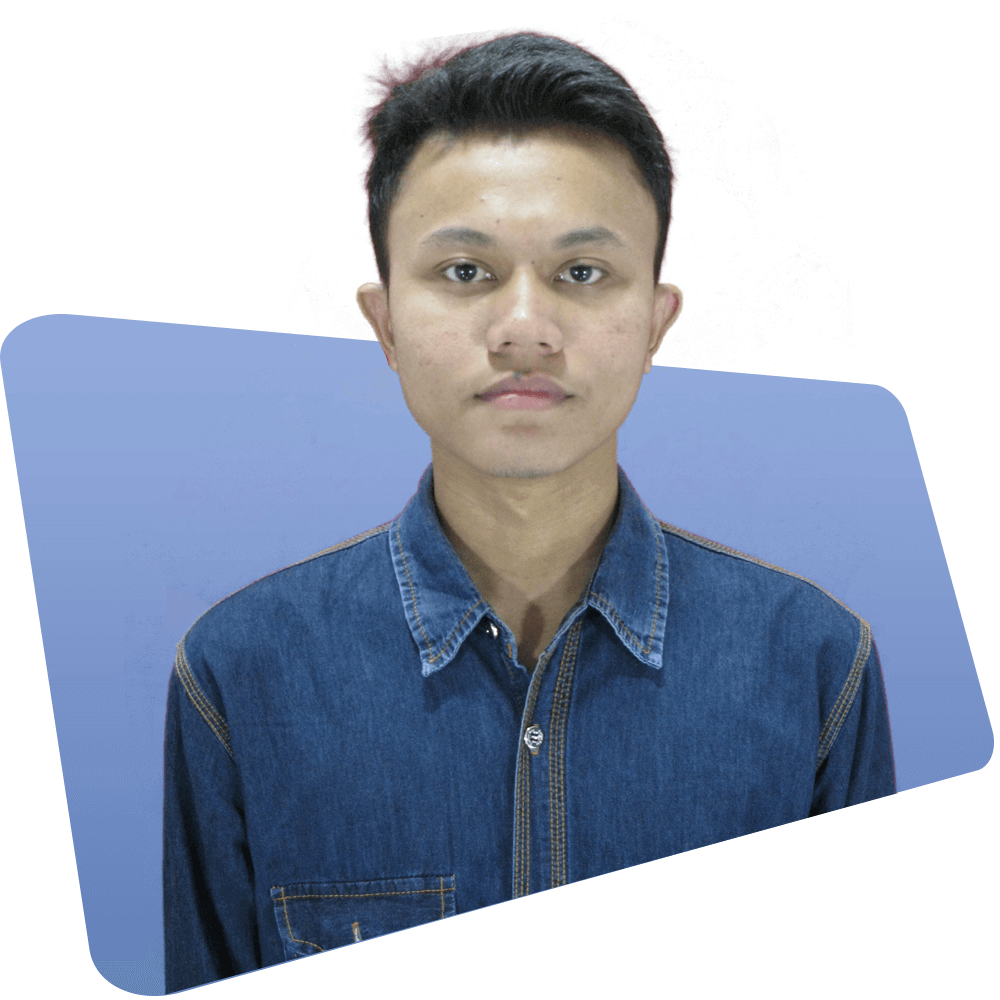
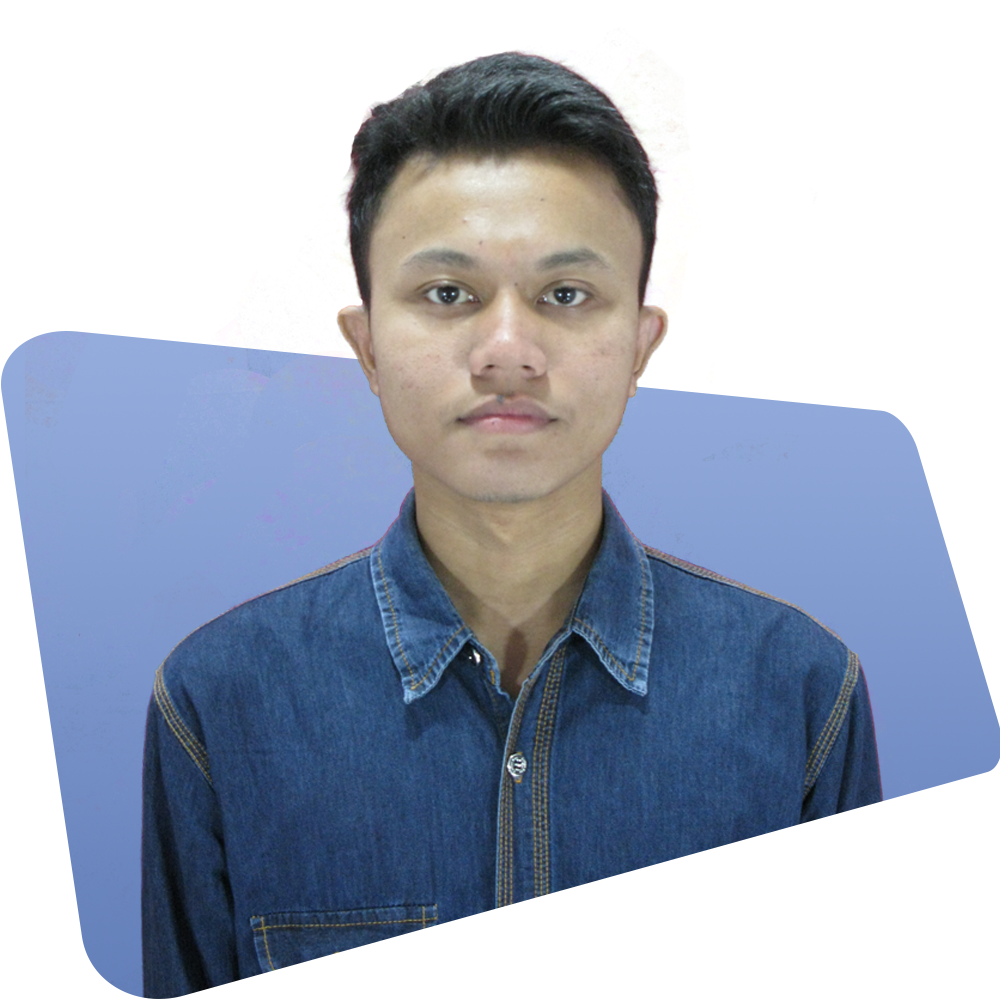
edit

diff --git a/style.css b/style.css
@@ -1,1 +1,237 @@
-@font-face{font-family:GothamRounded;src:url('fonts/GothamRounded-Medium.otf');}@font-face{font-family:GothamRoundedLight;src:url('fonts/GothamRounded-Light.otf');}html, body{font-size:10px;}#btntop{display:none;position:fixed;bottom:1.5rem;right:1.5rem;z-index:99;border:2px solid transparent;border-radius:.5rem;background-image:linear-gradient(to bottom right, rgb(100,128,186), rgb(116, 141, 192));padding:.35rem 1.05rem .35rem 1.05rem !important;color:white;box-shadow:.3rem .3rem .5rem rgb(200,200,200);transition:.2s all;}#btntop:hover, #btntop:focus{background-image:linear-gradient(to bottom right, white, white);border:2px solid rgb(100,128,186);color:rgb(18,18,18);box-shadow:none;outline:none;transition:.2s all;}.header, .konten1, .konten2, .konten3, .konten4{border-radius:0;background-color:white;background-size:cover;}.profil{width:100%;float:right;}.header h1{margin-top:35%;}.header h3{margin-top:-1rem;margin-bottom:-.5rem;}.kontak:hover{border:2px solid rgb(155,127,69);background-image:linear-gradient(to bottom right, transparent, transparent);transition:.2s all;box-shadow:none;filter:invert(100%) !important;}.kontak{width:4rem;height:4rem;margin:0rem .2rem 0rem .2rem;border:2px solid transparent;border-radius:50%;background-image:linear-gradient(to bottom right, rgb(100,128,186), rgb(116, 141, 192));transition:.2s all;box-shadow:.3rem .3rem .5rem rgb(200,200,200);}table tr td{font-size:1.6rem;font-family:'GothamRoundedLight';color:rgb(18,18,18);letter-spacing:.05rem;}.btn{background-image:linear-gradient(to bottom right, white, white);border:2px solid rgb(100,128,186);padding:1rem 1.5rem 1rem 1.5rem;font-size:1.6rem;font-family:'GothamRounded';border-radius:.5rem;color:rgb(18,18,18);transition:.2s all;box-shadow:none;}.btn:hover, .btn:focus{outline:none !important;background-image:linear-gradient(to bottom right, rgb(100,128,186), rgb(116, 141, 192));border:2px solid transparent;box-shadow:.5rem .5rem 1rem rgb(200,200,200);transition:.2s all;color:white !important;}.konten1 img{width:100%;border:none !important;border-radius:1rem;}.timeline{position:relative;margin:3rem auto;padding:2rem 0;}.timeline:before{content:'';position:absolute;left:50%;width:2px;height:85%;background:rgb(18,18,18);}.timeline ul{margin:0;padding:0;}.timeline ul li{list-style:none;position:relative;width:50%;padding:2rem 4rem;}.timeline ul li:nth-child(odd){float:left;text-align:right;clear:both;}.timeline ul li:nth-child(even){float:right;text-align:left;clear:both;}.content{padding-bottom:2rem;}.timeline ul li:nth-child(odd):before{content:'';position:absolute;top:24px;right:-6px;width:1rem;height:1rem;background:rgb(18,18,18);border-radius:50%;box-shadow:0 0 0 3px rgba(156, 156, 156, 0.2)}.timeline ul li:nth-child(even):before{content:'';position:absolute;top:24px;left:-4px;width:1rem;height:1rem;background:rgb(18,18,18);border-radius:50%;box-shadow:0 0 0 3px rgba(156, 156, 156, 0.2)}.timeline ul li h5{margin:0;padding:0;}.timeline ul li .time h5{margin:0;padding:0;color:white;}.timeline ul li:nth-child(odd) .time{position:absolute;top:12px;right:-165px;margin:0;padding:8px 16px;background-image:linear-gradient(to bottom right, rgb(100,128,186), rgb(116, 141, 192));color:white !important;border-radius:25px;box-shadow:0 0 0 3px rgba(156, 156, 156, 0.4);}.timeline ul li:nth-child(even) .time{position:absolute;top:12px;left:-165px;margin:0;padding:8px 16px;background-image:linear-gradient(to bottom right, rgb(100,128,186), rgb(116, 141, 192));color:white;border-radius:25px;box-shadow:0 0 0 3px rgba(156, 156, 156, 0.4);}.talent{padding:15px;}.box{width:100%;background-color:rgb(230, 230, 230);border-radius:5px !important;}.skill{color:white;margin-bottom:20px;border-radius:5px;}.ket{width:20rem;background:rgba(0, 0, 0, 0.3);padding-left:10px;padding-top:6px;padding-bottom:6px;border-radius:5px 0px 0px;font-size:1.6rem;font-family:'GothamRoundedLight';letter-spacing:.05rem;}.html{width:95%;background-color:#e96815;}.css{width:95%;background-color:#0764af;}.php{width:75%;background-color:#6482dd;}.js{width:75%;background-color:#fbde1c;}.ci{width:90%;background-color:#be4e06;}.pr{width:90%;background-color:rgb(201, 62, 146);}.ps{width:80%;background-color:rgb(14, 157, 210);}.ae{width:75%;background-color:rgb(134, 29, 93);}.second{display:none;}.konten3 .container{padding:0rem 3rem 0rem 3.2rem;}.konten3 h2{margin-top:46%;}.award{padding:2rem;background-image:linear-gradient(to bottom right, rgb(100,128,186), rgb(116, 141, 192));border-radius:1rem 0rem 0rem 1rem;}.award ul li{font-size:1.6rem;font-family:'GothamRoundedLight';color:white;letter-spacing:.05rem;}.awex{background-color:rgb(245,245,245);border-radius:0rem 1rem 1rem 0rem;}.card{border-radius:1rem;margin-bottom:3.5rem;transition:.2s all;}.card:hover{box-shadow:.5rem .5rem 1rem rgb(200,200,200);border:1px solid transparent;transition:.2s all;}.card-img-top{border-radius:1rem 1rem 0rem 0rem;}.card h4{color:rgb(18,18,18);}.page-footer{width:100%;background-color:white;padding:1.5rem 0rem 1.5rem 0rem;}.page-footer h5{font-weight:lighter;text-align:center;line-height:2.8rem;}h1{font-size:5rem;font-family:'GothamRounded';color:rgb(18,18,18);}h2{font-size:3.2rem;font-family:'GothamRounded';text-align:center;margin-bottom:3rem;color:rgb(18,18,18);}h3{font-size:2.5rem;font-family:'GothamRounded';color:rgb(18,18,18);}h4{font-size:2rem;font-family:'GothamRounded';color:white;}h5{font-size:1.6rem;font-family:'GothamRoundedLight';color:rgb(18,18,18);letter-spacing:.05rem;}p{font-size:1.6rem;font-family:'GothamRoundedLight';color:rgb(18,18,18);letter-spacing:.05rem;}strong{color:rgb(100,128,186);font-weight:lighter;}hr{margin-bottom:2rem;width:100%;float:left;background-color:rgb(18,18,18) !important;height:2px;}@media (max-width:767px){h1{line-height:5.2rem;} .header h3{margin-top:1rem;margin-bottom:-.5rem;} .container{padding:none !important;} .profil{float:none;margin-top:1rem;} .header h1{margin-top:0%;} .konten1 img{margin-bottom:1.5rem;} .timeline{width:100%;padding-bottom:0;} .timeline:before{left:0px;width:2px;height:80%;top:0px;} .timeline ul li:nth-child(even), .timeline ul li:nth-child(odd){width:100%;text-align:left;padding-left:30px;padding-bottom:50px;} .timeline ul li:nth-child(even):before, .timeline ul li:nth-child(odd):before{top:-18px;left:-3px;} .timeline ul li:nth-child(even) .time, .timeline ul li:nth-child(odd) .time{top:-30px;left:30px;right:inherit;} .first{display:none;} .second{display:block;} .konten3 .container{padding:0rem 1.8rem 0rem 2rem;} .konten3 h2{margin-top:15%;} .award{border-radius:0rem 0rem 1rem 1rem;} .awex{border-radius:1rem 1rem 0rem 0rem;} .page-footer{width:100%;background-color:white;padding:2.4rem;} .page-footer h5{text-align:left;}}
+@font-face {
+    font-family:GothamRounded; src:url('fonts/GothamRounded-Medium.otf');
+}
+@font-face {
+    font-family:GothamRoundedLight; src:url('fonts/GothamRounded-Light.otf');
+}
+html, body {
+    font-size:10px;
+}
+#btntop{
+    display:none; position:fixed; bottom:1.5rem; right:1.5rem; z-index:99; border:2px solid transparent; border-radius:.5rem; background-image:linear-gradient(to bottom right, rgb(100,128,186), rgb(116, 141, 192)); padding:.35rem 1.05rem .35rem 1.05rem !important; color:white; box-shadow:.3rem .3rem .5rem rgb(200,200,200); transition:.2s all;
+}
+#btntop:hover, #btntop:focus {
+    background-image:linear-gradient(to bottom right, white, white); border:2px solid rgb(100,128,186); color:rgb(18,18,18); box-shadow:none; outline:none; transition:.2s all;
+}
+.header, .konten1, .konten2, .konten3, .konten4 {
+    border-radius:0; background-color:white; background-size:cover;
+}
+.profil {
+    width:100%; float:right;
+}
+.header h1 {
+    margin-top:35%;
+}
+.header h3 {
+    margin-top:-1rem; margin-bottom:-.5rem;
+}
+.kontak:hover {
+    border:2px solid rgb(155,127,69);background-image:linear-gradient(to bottom right, transparent, transparent); transition:.2s all; box-shadow:none; filter:invert(100%) !important;
+}
+.kontak {
+    width:4rem; height:4rem; margin:0rem .2rem 0rem .2rem; border:2px solid transparent; border-radius:50%; background-image:linear-gradient(to bottom right, rgb(100,128,186), rgb(116, 141, 192)); transition:.2s all; box-shadow:.3rem .3rem .5rem rgb(200,200,200);
+}
+
+table tr td {
+    font-size:1.6rem; font-family: 'GothamRoundedLight'; color:rgb(18,18,18); letter-spacing:.05rem;
+}
+.btn {
+    background-image:linear-gradient(to bottom right, white, white); border:2px solid rgb(100,128,186); padding:1rem 1.5rem 1rem 1.5rem; font-size:1.6rem; font-family:'GothamRounded'; border-radius:.5rem; color:rgb(18,18,18); transition:.2s all; box-shadow:none;
+}
+.btn:hover, .btn:focus {
+    outline:none !important; background-image:linear-gradient(to bottom right, rgb(100,128,186), rgb(116, 141, 192)); border:2px solid transparent; box-shadow:.5rem .5rem 1rem rgb(200,200,200); transition:.2s all; color:white !important;
+}
+.konten1 img {
+    width:100%;
+}
+
+.timeline {
+    position:relative; margin:3rem auto; padding:2rem 0;
+}
+.timeline:before {
+    content:''; position:absolute; left:50%; width:2px; height:85%; background:rgb(18,18,18);
+}
+.timeline ul {
+    margin:0; padding:0;
+}
+.timeline ul li {
+    list-style:none; position:relative; width:50%; padding:2rem 4rem;
+}
+.timeline ul li:nth-child(odd) {
+    float:left; text-align:right; clear:both;
+}
+.timeline ul li:nth-child(even) {
+    float:right; text-align:left; clear:both;
+}
+.content {
+    padding-bottom:2rem;
+}
+.timeline ul li:nth-child(odd):before {
+    content:''; position:absolute; top:24px; right:-6px; width:1rem; height:1rem; background:rgb(18,18,18); border-radius:50%; box-shadow:0 0 0 3px rgba(156, 156, 156, 0.2)
+}
+.timeline ul li:nth-child(even):before {
+    content:''; position:absolute; top:24px; left:-4px; width:1rem; height:1rem; background:rgb(18,18,18); border-radius:50%; box-shadow:0 0 0 3px rgba(156, 156, 156, 0.2)
+}
+.timeline ul li h5 {
+    margin:0; padding:0;
+}
+.timeline ul li .time h5 {
+    margin:0; padding:0; color:white;
+}
+.timeline ul li:nth-child(odd) .time {
+    position:absolute; top:12px; right:-165px;margin:0; padding:8px 16px; background-image:linear-gradient(to bottom right, rgb(100,128,186), rgb(116, 141, 192)); color:white !important; border-radius:25px; box-shadow:0 0 0 3px rgba(156, 156, 156, 0.4);
+}
+.timeline ul li:nth-child(even) .time {
+    position:absolute; top:12px; left:-165px; margin:0; padding:8px 16px; background-image:linear-gradient(to bottom right, rgb(100,128,186), rgb(116, 141, 192)); color:white; border-radius:25px; box-shadow:0 0 0 3px rgba(156, 156, 156, 0.4);
+}
+.talent {
+    padding:15px;
+}
+.box {
+    width:100%; background-color:rgb(230, 230, 230); border-radius:5px !important;
+}
+.skill {
+    color:white; margin-bottom:20px; border-radius:5px;
+}
+.ket {
+    width:20rem; background:rgba(0, 0, 0, 0.3); padding-left:10px; padding-top:6px; padding-bottom:6px; border-radius:5px 0px 0px; font-size:1.6rem; font-family: 'GothamRoundedLight'; letter-spacing:.05rem;
+}
+.html {width: 95%; background-color: #e96815;}
+.css {width: 95%; background-color: #0764af;}
+.php {width: 75%; background-color: #6482dd;}
+.js {width: 75%; background-color: #fbde1c;}
+.ci {width: 90%; background-color: #be4e06;}
+.pr {width: 90%; background-color: rgb(201, 62, 146);}
+.ps {width: 80%; background-color: rgb(14, 157, 210);}
+.ae {width: 75%; background-color: rgb(134, 29, 93);}
+
+.second {
+    display:none;
+}
+.konten3 .container {
+    padding: 0rem 3rem 0rem 3.2rem;
+}
+.konten3 h2 {
+    margin-top:46%;
+}
+.award {
+    padding:2rem; background-image:linear-gradient(to bottom right, rgb(100,128,186), rgb(116, 141, 192)); border-radius: 1rem 0rem 0rem 1rem;
+}
+.award ul li {
+    font-size:1.6rem; font-family: 'GothamRoundedLight'; color:white; letter-spacing:.05rem;
+}
+.awex {
+    background-color:rgb(240,240,240); border-radius: 0rem 1rem 1rem 0rem;
+}
+.card {
+    border-radius: 1rem; margin-bottom:3.5rem; transition:.2s all;
+}
+.card:hover {
+    box-shadow:.5rem .5rem 1rem rgb(200,200,200); border:1px solid transparent; transition:.2s all;
+}
+.card-img-top {
+    border-radius: 1rem 1rem 0rem 0rem;
+}
+.card h4 {
+    color:rgb(18,18,18);
+}
+
+.page-footer{
+    width:100%; background-color:white; padding:1.5rem 0rem 1.5rem 0rem;
+}
+.page-footer h5 {
+    font-weight:lighter; text-align:center; line-height:2.8rem;
+}
+h1 {
+    font-size:5rem; font-family:'GothamRounded'; color:rgb(18,18,18); 
+}
+h2 {
+    font-size:3.2rem; font-family:'GothamRounded'; text-align:center; margin-bottom:3rem; color:rgb(18,18,18);
+}
+h3 {
+    font-size:2.5rem; font-family:'GothamRounded'; color:rgb(18,18,18); 
+}
+h4 {
+    font-size:2rem; font-family:'GothamRounded'; color:white;
+}
+h5 {
+    font-size:1.6rem; font-family: 'GothamRoundedLight'; color:rgb(18,18,18); letter-spacing:.05rem;
+}
+p {
+    font-size:1.6rem; font-family: 'GothamRoundedLight'; color:rgb(18,18,18); letter-spacing:.05rem;
+}
+strong {
+    color:rgb(100,128,186); font-weight:lighter;
+}
+hr {
+    margin-bottom:2rem; width:100%; float:left; background-color:rgb(18,18,18) !important; height:2px;
+}
+@media (max-width: 767px) {
+    h1 {
+        line-height:5.2rem;
+    }
+    .header h3 {
+        margin-top:1rem; margin-bottom:-.5rem;
+    }
+    .container {
+        padding:none !important;
+    }
+    .profil {
+        float:none; margin-top:1rem;
+    }
+    .header h1 {
+        margin-top:0%;
+    }
+    .konten1 img {
+        display:none;
+    }
+    .timeline {
+        width: 100%;
+        padding-bottom: 0;
+    }
+    .timeline:before {
+        left:0px; width:2px; height:80%; top:0px;
+    }
+    .timeline ul li:nth-child(even),
+    .timeline ul li:nth-child(odd) {
+        width: 100%;
+        text-align: left;
+        padding-left: 30px;
+        padding-bottom: 50px;
+    }
+    .timeline ul li:nth-child(even):before,
+    .timeline ul li:nth-child(odd):before {
+        top: -18px;
+        left: -3px;
+    }
+    .timeline ul li:nth-child(even) .time,
+    .timeline ul li:nth-child(odd) .time {
+        top: -30px;
+        left: 30px;
+        right: inherit;
+    }
+    .first {
+        display:none;
+    }
+    .second {
+        display:block;
+    }
+    .konten3 .container {
+        padding: 0rem 1.8rem 0rem 2rem;
+    }
+    .konten3 h2 {
+        margin-top:15%;
+    }
+    .award {
+        border-radius: 0rem 0rem 1rem 1rem;
+    }
+    .awex {
+        border-radius: 1rem 1rem 0rem 0rem;
+    }
+    .page-footer{
+        width:100%; background-color:white; padding:2.4rem;
+    }
+    .page-footer h5 {
+        text-align:left;
+    }
+}

diff --git a/index.html b/index.html
@@ -21,7 +21,7 @@
                             <h1><strong>DIAN </strong>FAKHRUL ARIF</h1>
                             <h3>FULL STACK WEB DEVELOPER</h3>
                             <hr>
-                            <a href="https://api.whatsapp.com/send?phone=082234963877&text=Hallo" target="_blank"><img src="img/wa.png" class="kontak" title="Whatsapp"></a>
+                            <a href="https://api.whatsapp.com/send?phone=082234963877&text=Hallo" target="_blank"><img src="img/wa.png" class="kontak" title="WhatsApp"></a>
                             <a href="mailto:arifdian56@gmail.com?Subject=Hello%20Dian" target="_top"><img src="img/email.png" class="kontak" title="Email"></a>
                             <a href="https://www.facebook.com/dianfakhrul.arif" target="_blank"><img src="img/fb.png" class="kontak" title="Facebook"></a>
                             <a href="https://linkedin.com/in/dianfrf" target="_blank"><img src="img/linkedin.png" class="kontak" title="LinkedIn"></a>
@@ -39,12 +39,12 @@
         <section>
             <div class="jumbotron konten1">
                 <div class="container">
-                    <h2>ABOUT ME</h2>
                     <div class="row">
                         <div class="col-md-5">
-                            <img src="img/WD.png"></center>
+                            <img src="img/ppl.png">
                         </div>
                         <div class="col-md-7">
+                            <h2>ABOUT ME</h2>
                             <p>
                                 Hello! My name is Dian. I am a Web Developer who focuses on Back End and Front End.
                                 I am a person who has high curiosity. I am responsible and can work independently or in a team.
@@ -260,7 +260,20 @@
             <h5>Copyright &copy; 2020 Dian Fakhrul Arif. All rights reserved.</h5>
         </div>
         <script>
-            $(document).ready(function(){$("#btntop").click(function(){$("html, body").animate({scrollTop:0},300)})});var mybutton=document.getElementById("btntop");function scrollFunction(){20<document.body.scrollTop||20<document.documentElement.scrollTop?mybutton.style.display="block":mybutton.style.display="none"}window.onscroll=function(){scrollFunction()};
+            $(document).ready(function() {
+                $('#btntop').click(function() {
+                    $("html, body").animate({scrollTop: 0}, 300);
+                });
+            }); 
+            var mybutton = document.getElementById("btntop");
+            window.onscroll = function() {scrollFunction()};
+            function scrollFunction() {
+                if (document.body.scrollTop > 20 || document.documentElement.scrollTop > 20) {
+                    mybutton.style.display = "block";
+                } else {
+                    mybutton.style.display = "none";
+                }
+            }
         </script>
     </body>
 </html>
